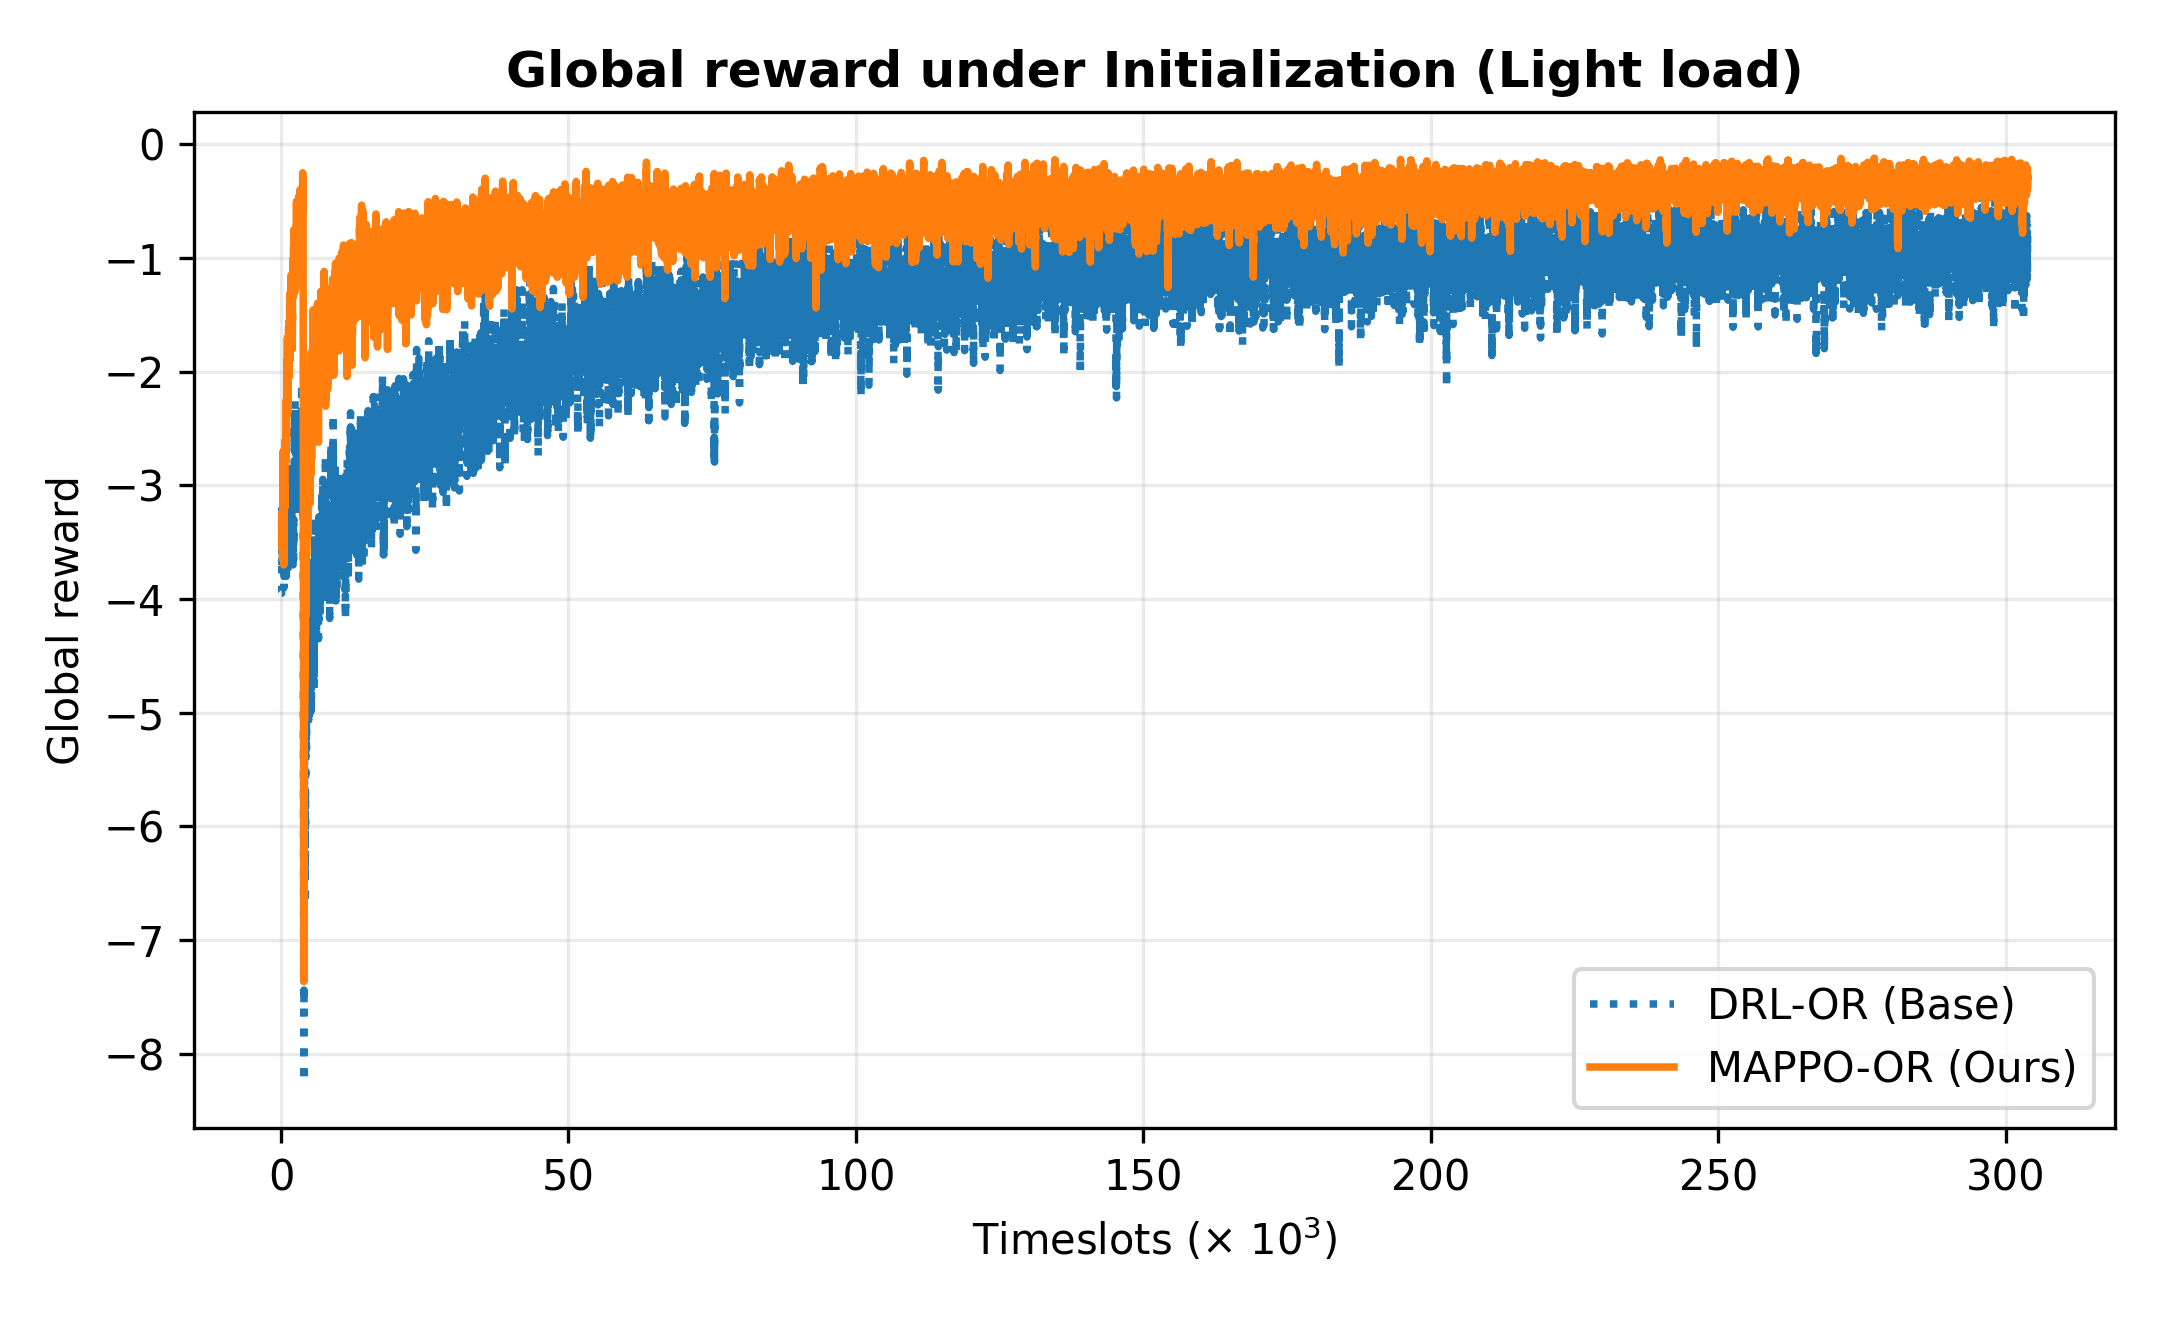
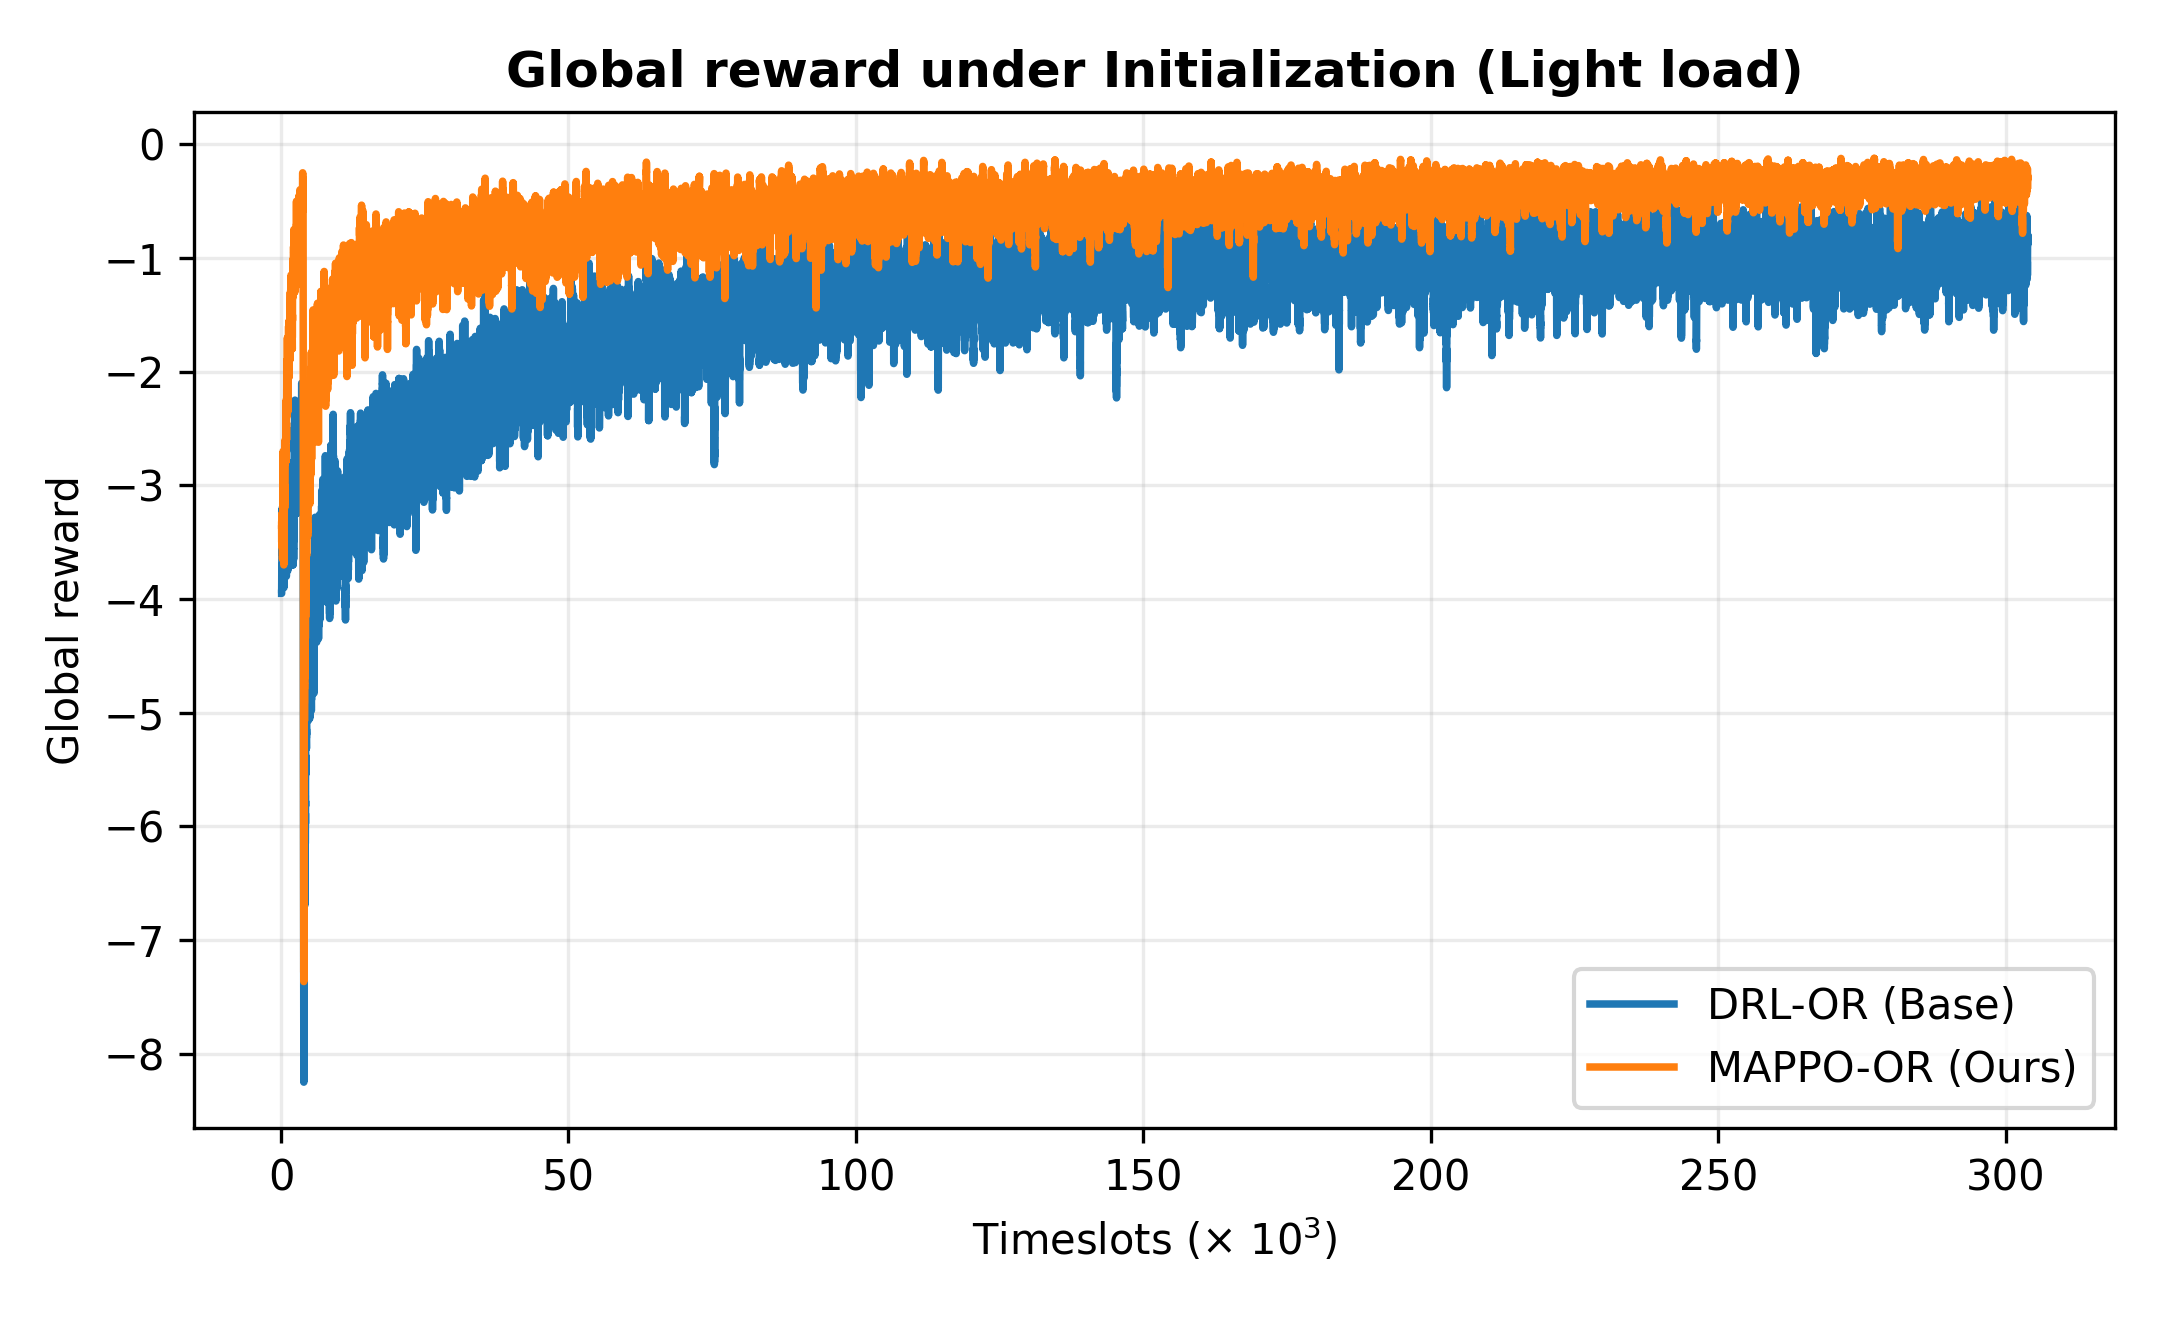
add new figs

diff --git a/fignew5.py b/fignew5.py
@@ -1,0 +1,268 @@
+#!/usr/bin/env python3
+"""
+Create one combined global-reward figure for all three scenarios.
+
+Columns:
+  Initialization | Link Failure | Traffic Change
+
+Each subplot compares:
+  DRL-OR (Base) vs MAPPO-OR (Ours)
+
+It uses the same folder mapping as the previous working script:
+  MAPPO-OR:
+    initialization  -> log/mappo_initialization
+    link_failure    -> log/mappo_link_failure
+    traffic_change  -> log/mappo_traffic_change
+
+  DRL-OR:
+    initialization  -> log/ppo_initialization
+    link_failure    -> log/ppo_link_failure
+    traffic_change  -> log/ppo_traffic_change
+
+For heavy initialization:
+  MAPPO-OR -> log/mappo_initialization_heavy
+  DRL-OR   -> log/ppo_initialization_heavy
+
+The metric is read from:
+  globalrwd.log
+
+Example:
+python plot_ch5_global_reward_combined.py \
+  --root ./log \
+  --load light \
+  --methods DRL-OR MAPPO-OR \
+  --scenarios initialization link_failure traffic_change \
+  --event link_failure:10000 \
+  --event traffic_change:10000 \
+  --out ./figures_ch5_global_reward/global_reward_combined.png \
+  --moving-window 100 \
+  --verbose
+"""
+
+from __future__ import annotations
+
+import argparse
+import re
+from pathlib import Path
+from typing import Dict, List, Optional, Tuple
+
+import matplotlib.pyplot as plt
+import numpy as np
+
+
+SCENARIO_LABELS = {
+    "initialization": "Initialization",
+    "link_failure": "Link Failure",
+    "traffic_change": "Traffic Change",
+}
+
+METHOD_LABELS = {
+    "DRL-OR": "DRL-OR (Base)",
+    "PPO": "DRL-OR (Base)",
+    "MAPPO-OR": "MAPPO-OR (Ours)",
+    "MAPPO": "MAPPO-OR (Ours)",
+}
+
+METHOD_STYLES = {
+    "DRL-OR": {"linestyle": "-", "linewidth": 1.8},
+    "PPO": {"linestyle": ":", "linewidth": 1.8},
+    "MAPPO-OR": {"linestyle": "-", "linewidth": 1.8},
+    "MAPPO": {"linestyle": "-", "linewidth": 1.8},
+}
+
+
+def canonical_method(method: str) -> str:
+    return {
+        "PPO": "DRL-OR",
+        "MAPPO": "MAPPO-OR",
+    }.get(method.strip(), method.strip())
+
+
+def run_dir(root: Path, method: str, scenario: str, load: str) -> Optional[Path]:
+    method = canonical_method(method)
+    load = load.lower()
+
+    if method == "MAPPO-OR":
+        if scenario == "initialization":
+            name = "mappo_initialization_heavy" if load == "heavy" else "mappo_initialization"
+        elif scenario == "link_failure":
+            name = "mappo_link_failure"
+        elif scenario == "traffic_change":
+            name = "mappo_traffic_change"
+        else:
+            return None
+        p = root / name
+        return p if p.exists() else None
+
+    if method == "DRL-OR":
+        if scenario == "initialization":
+            name = "ppo_initialization_heavy" if load == "heavy" else "ppo_initialization"
+        elif scenario == "link_failure":
+            name = "ppo_link_failure"
+        elif scenario == "traffic_change":
+            name = "ppo_traffic_change"
+        else:
+            return None
+        p = root / name
+        return p if p.exists() else None
+
+    return None
+
+
+def parse_log_file(path: Path) -> Tuple[np.ndarray, np.ndarray]:
+    number = re.compile(r"[-+]?(?:\d*\.\d+|\d+)(?:[eE][-+]?\d+)?")
+    xs, ys = [], []
+
+    with path.open("r", encoding="utf-8", errors="ignore") as f:
+        for idx, line in enumerate(f):
+            vals = [float(v) for v in number.findall(line)]
+            if not vals:
+                continue
+            if len(vals) >= 2:
+                xs.append(vals[0])
+                ys.append(vals[-1])
+            else:
+                xs.append(idx)
+                ys.append(vals[0])
+
+    return np.asarray(xs, dtype=float), np.asarray(ys, dtype=float)
+
+
+def read_global_reward(root: Path, method: str, scenario: str, load: str, verbose: bool = False) -> Optional[Tuple[np.ndarray, np.ndarray]]:
+    d = run_dir(root, method, scenario, load)
+    if d is None:
+        if verbose:
+            print(f"[WARN] Missing directory for method={method}, scenario={scenario}, load={load}")
+        return None
+
+    f = d / "globalrwd.log"
+    if not f.exists():
+        if verbose:
+            print(f"[WARN] Missing file: {f}")
+        return None
+
+    x, y = parse_log_file(f)
+    if len(y) == 0:
+        if verbose:
+            print(f"[WARN] Empty file: {f}")
+        return None
+
+    if verbose:
+        print(f"[OK] {method:8s} | {scenario:14s} | {f}")
+
+    return x, y
+
+
+def moving_average(y: np.ndarray, window: int) -> np.ndarray:
+    if window <= 1 or len(y) == 0:
+        return y
+    window = min(window, len(y))
+    return np.convolve(y, np.ones(window) / window, mode="valid")
+
+
+def ema_smooth(y: np.ndarray, smoothing: float) -> np.ndarray:
+    if smoothing <= 0 or len(y) == 0:
+        return y
+    out = np.empty_like(y, dtype=float)
+    out[0] = y[0]
+    for i in range(1, len(y)):
+        out[i] = smoothing * out[i - 1] + (1 - smoothing) * y[i]
+    return out
+
+
+def smooth_curve(x: np.ndarray, y: np.ndarray, moving_window: int, smoothing: float) -> Tuple[np.ndarray, np.ndarray]:
+    if moving_window > 1:
+        y_sm = moving_average(y, moving_window)
+        x_sm = x[-len(y_sm):]
+        return x_sm, y_sm
+    if smoothing > 0:
+        return x, ema_smooth(y, smoothing)
+    return x, y
+
+
+def parse_events(items: List[str]) -> Dict[str, float]:
+    out = {}
+    for item in items:
+        if ":" not in item:
+            raise ValueError(f"Invalid event format: {item}. Use scenario:step")
+        scenario, step = item.split(":", 1)
+        out[scenario.strip()] = float(step)
+    return out
+
+
+def main() -> None:
+    parser = argparse.ArgumentParser()
+    parser.add_argument("--root", type=Path, default=Path("./log"))
+    parser.add_argument("--out", type=Path, default=Path("./figures_ch5_global_reward/global_reward_combined.png"))
+    parser.add_argument("--load", choices=["light", "heavy"], default="light")
+    parser.add_argument("--methods", nargs="+", default=["DRL-OR", "MAPPO-OR"])
+    parser.add_argument("--scenarios", nargs="+", default=["initialization", "link_failure", "traffic_change"])
+    parser.add_argument("--event", action="append", default=[], help="scenario:step, e.g., link_failure:10000")
+    parser.add_argument("--moving-window", type=int, default=100)
+    parser.add_argument("--smoothing", type=float, default=0.0)
+    parser.add_argument("--x-divisor", type=float, default=1000.0)
+    parser.add_argument("--verbose", action="store_true")
+    args = parser.parse_args()
+
+    methods = [canonical_method(m) for m in args.methods]
+    events = parse_events(args.event)
+
+    n_cols = len(args.scenarios)
+    fig, axes = plt.subplots(1, n_cols, figsize=(5.8 * n_cols, 4.2), squeeze=False)
+    axes = axes.ravel()
+
+    for ax, scenario in zip(axes, args.scenarios):
+        plotted = False
+
+        for method in methods:
+            curve = read_global_reward(args.root, method, scenario, args.load, args.verbose)
+            if curve is None:
+                continue
+
+            x, y = smooth_curve(curve[0], curve[1], moving_window=args.moving_window, smoothing=args.smoothing)
+
+            style = METHOD_STYLES.get(method, {"linestyle": "-", "linewidth": 1.5})
+            ax.plot(
+                x / args.x_divisor,
+                y,
+                label=METHOD_LABELS.get(method, method),
+                linestyle=style["linestyle"],
+                linewidth=style["linewidth"],
+            )
+            plotted = True
+
+        if scenario in events:
+            event_x = events[scenario] / args.x_divisor
+            ax.axvline(event_x, color="black", linestyle="--", linewidth=1.1)
+            ax.text(event_x, ax.get_ylim()[1], "event", rotation=90, va="top", ha="right", fontsize=8)
+
+        ax.set_title(SCENARIO_LABELS.get(scenario, scenario), fontsize=13, fontweight="bold")
+        ax.set_xlabel("Timeslots (× $10^3$)" if args.x_divisor == 1000 else "Timeslots")
+        ax.grid(True, alpha=0.25)
+
+        if not plotted:
+            ax.text(0.5, 0.5, "No data", transform=ax.transAxes, ha="center", va="center")
+
+    axes[0].set_ylabel("Global reward")
+
+    handles, labels = axes[0].get_legend_handles_labels()
+    if handles:
+        fig.legend(handles, labels, loc="lower center", ncol=len(labels), frameon=True)
+
+    load_label = "Heavy load" if args.load == "heavy" else "Light load"
+    fig.suptitle(
+        f"Global Reward Comparison across Evaluation Scenarios ({load_label})",
+        fontsize=16,
+        fontweight="bold",
+    )
+
+    fig.tight_layout(rect=[0, 0.08, 1, 0.92])
+    args.out.parent.mkdir(parents=True, exist_ok=True)
+    fig.savefig(args.out, dpi=300)
+    plt.close(fig)
+
+    print(f"Saved: {args.out.resolve()}")
+
+
+if __name__ == "__main__":
+    main()
